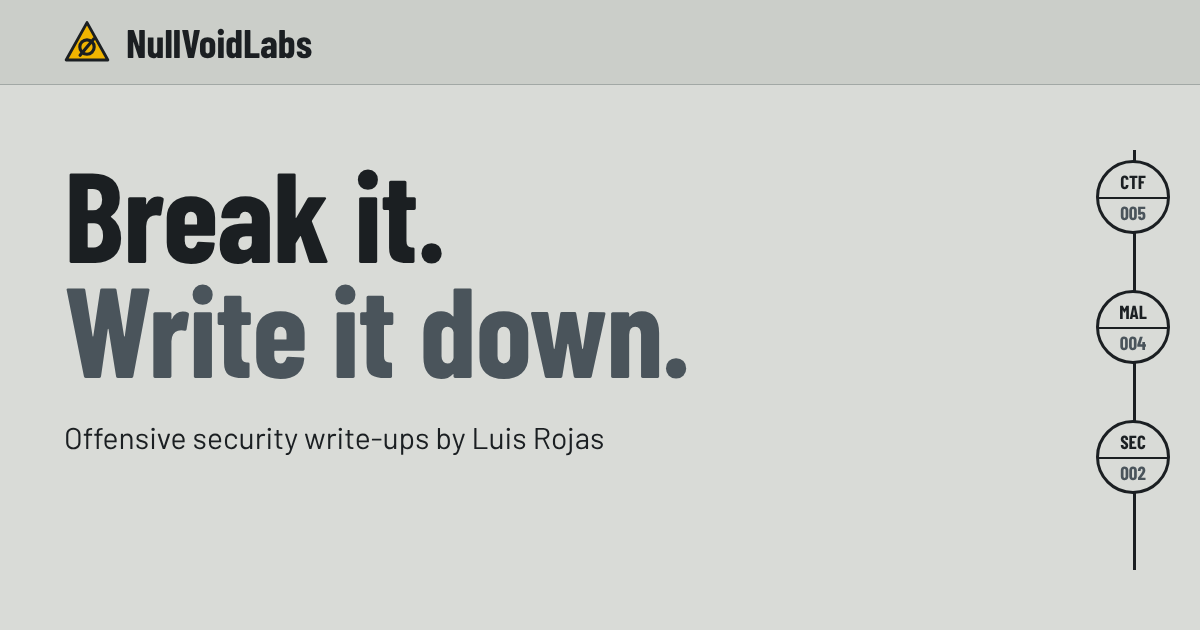
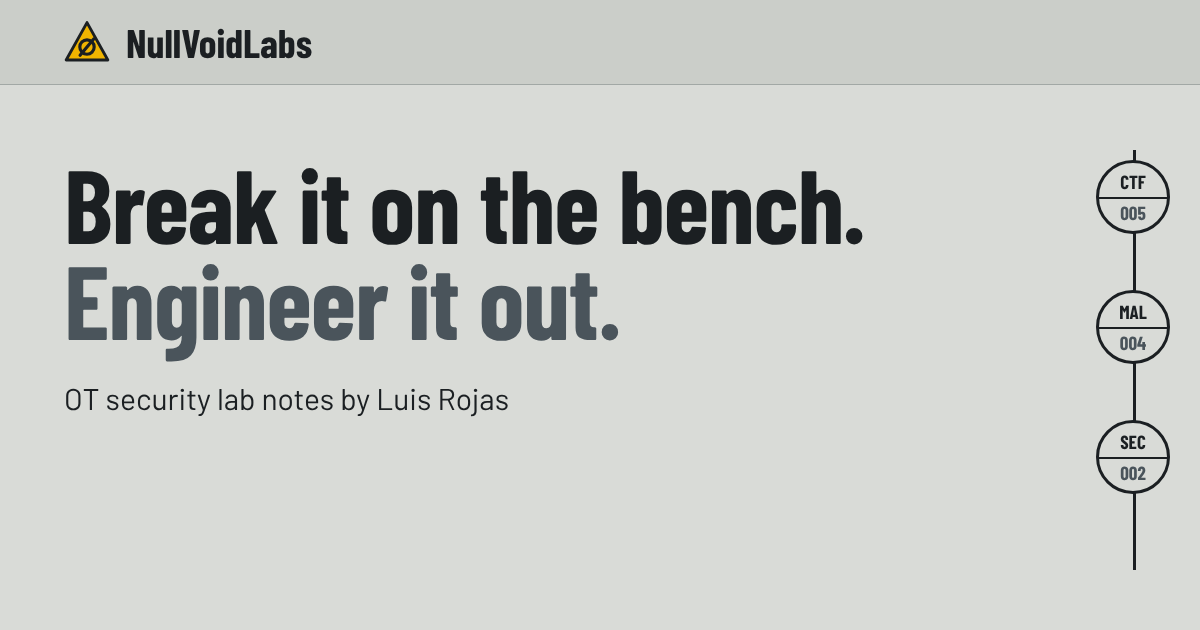
Reposition site from pentesting to OT security engineering
- New headline and intro: break it on the bench, engineer it out
- Current state panel: testbench next step, PLC/control-loop learning,
  internship guard server, CCNA next (OSCP removed)
- About page rewritten around the OT security engineering plan:
  infrastructure path, testbench, open-to-roles line, new roadmap
  (RHCSA, CCNA, IEC 62443 + CCE, GICSP)
- Site description, README and social card updated
- ICS Lab category code ready for testbench posts
- Headline type scale adjusted for the longer line
- Posts unchanged

Claude-Session: https://claude.ai/code/session_014Ve6o2PBXLHHfoBXUDgWzn

Changed region(s): [[0.0308, 0.2714, 0.74, 0.7238]]

diff --git a/_layouts/home.html b/_layouts/home.html
@@ -5,8 +5,8 @@ layout: default
 <section class="hero" aria-labelledby="hero-title">
   <div class="wrap">
     <div>
-      <h1 class="hero-title" id="hero-title"><span>Break it.</span><span>Write it down.</span></h1>
-      <p class="hero-lede">I'm Luis Rojas, a junior penetration tester in San Francisco. NullVoidLabs is where I publish what I break: lab boxes, malware samples, and authorized assessments, from first scan to final finding. The long game is ICS/SCADA red teaming.</p>
+      <h1 class="hero-title" id="hero-title"><span>Break it on the bench.</span><span>Engineer it out.</span></h1>
+      <p class="hero-lede">I'm Luis Rojas, working toward OT security engineering in San Francisco: keeping the systems that run water, power, and manufacturing safe when someone gets onto the network. I learn how industrial systems fail under attack, on a testbench I'm building and in lab write-ups, so I can design them not to.</p>
     </div>
     <section class="faceplate" aria-labelledby="now-title">
       <h2 id="now-title">Current state <small>{{ site.data.now.updated | append: '-01' | date: '%b %Y' }}</small></h2>

diff --git a/assets/css/main.css b/assets/css/main.css
@@ -149,7 +149,8 @@ main { flex: 1 0 auto; }
 @media (min-width: 900px) { .hero .wrap { grid-template-columns: minmax(0, 7fr) minmax(0, 4fr); gap: 4rem; } }
 .hero-title {
   margin: 0 0 1.5rem;
-  font: 700 clamp(3.2rem, 9vw, 6.75rem)/.9 var(--display);
+  font: 700 clamp(2.6rem, 6.4vw, 5.4rem)/.92 var(--display);
+  text-wrap: balance;
   letter-spacing: -.012em;
 }
 .hero-title span { display: block; }

diff --git a/_tabs/about.md b/_tabs/about.md
@@ -1,28 +1,34 @@
 ---
 layout: page
 title: About
-lede: Luis Rojas. Junior penetration tester in San Francisco, working toward ICS/SCADA red teaming.
+lede: Luis Rojas. Working toward OT security engineering in San Francisco.
 order: 4
 ---
 
 <div class="about">
 <div class="prose" markdown="1">
 
-## What I do
+## What I'm working toward
 
-I'm a junior penetration tester. That's the role I'm going after right now, and this site is the evidence. During the day I intern on a security team, where I run GRC platform assessments, pentest self-hosted tools, and deploy them on AWS. Everything else happens in labs that I document here.
+OT security engineering: protecting the industrial systems that run water, power, and manufacturing. I bring an attacker's mindset, which I built through the offensive write-ups on this site, but the goal is defensive engineering. Start from the worst physical outcome, ask whether an attacker could cause it, then design it out, including with controls that aren't digital at all.
 
-I hold Security+ and eJPT. Next up is RHCSA, then CCNA and OSCP. Long term I want to red team industrial control systems, and solid fundamentals across Linux, networking, and Active Directory are what make that specialization worth anything.
+## How I'm getting there
+
+Through infrastructure first. Segmentation is where OT defense lives, so I'm building Linux and networking depth (RHCSA, then CCNA) and looking for an infrastructure or network role to put it to work. In parallel I'm learning the physical side: PLC basics with OpenPLC, how control loops behave and fail, and a testbench I can actually break.
+
+I hold Security+ and eJPT. During the day I intern on a security team, where I'm building a guard server that sits between an AI agent and a GRC platform. It enforces read-only tools, requires human approval for deletes, and keeps a tamper-evident audit log.
+
+**Open to:** junior infrastructure, network, or sysadmin roles in the Bay Area or remote.
+
+## The testbench
+
+An ESP32 acts as the PLC. It speaks Modbus TCP and drives a pump and level sensor on a small water tank, with a web HMI on top. Next comes a safety interlock. Then I attack it on the bench, engineer the attack out, and write up both halves.
 
 ## How I write things up
 
-One rule: no new box until the last one is published. Each write-up records the whole chain, including the dead ends, the reasoning behind each pivot, and the exact commands. Someone following along should be able to reproduce it, not just see that it was done.
+One rule: nothing new until the last thing is published. Each write-up records the whole chain, including the dead ends, the reasoning behind each pivot, and the exact commands, so someone can reproduce it.
 
-All testing here happens on authorized platforms (Hack The Box, TryHackMe), in my own lab, or with written permission from the owner.
-
-## The lab
-
-A VLAN-segmented Proxmox cluster runs my Active Directory and offensive labs. For the ICS side, I'm building a small Modbus water-tank testbench on ESP32 hardware, so I can practise against real field protocols instead of only reading about them.
+All testing here happens on authorized platforms (Hack The Box, TryHackMe), in my own lab, or with written permission from the owner. The lab is a VLAN-segmented Proxmox cluster running Active Directory and offensive labs.
 
 </div>
 
@@ -31,11 +37,11 @@ A VLAN-segmented Proxmox cluster runs my Active Directory and offensive labs. Fo
 <h2 id="road-title">Roadmap</h2>
 <div class="faceplate-body">
 <ol class="roadmap">
-  <li data-state="done"><div><strong>eJPT + Security+</strong><span>Foundation certs. <em>Done</em></span></div></li>
+  <li data-state="done"><div><strong>eJPT + Security+</strong><span>Foundations. <em>Done</em></span></div></li>
   <li data-state="active"><div><strong>RHCSA</strong><span>Exam target Dec 2026 – Jan 2027. <em>In progress</em></span></div></li>
-  <li><div><strong>CCNA</strong><span>Networking depth.</span></div></li>
-  <li><div><strong>OSCP</strong><span>Active Directory attack chains.</span></div></li>
-  <li><div><strong>GICSP</strong><span>ICS/OT specialization on top of red team fundamentals.</span></div></li>
+  <li><div><strong>CCNA</strong><span>2027. Networking and segmentation.</span></div></li>
+  <li><div><strong>IEC 62443 and CCE</strong><span>2028. Industrial security standards and consequence-driven engineering.</span></div></li>
+  <li><div><strong>GICSP</strong><span>ICS security engineering.</span></div></li>
 </ol>
 </div>
 </section>
@@ -52,7 +58,7 @@ A VLAN-segmented Proxmox cluster runs my Active Directory and offensive labs. Fo
 <h2 id="kit-title">Toolkit</h2>
 <div class="faceplate-body">
 <ul class="kit">
-  <li>Kali</li><li>Fedora</li><li>Burp Suite</li><li>Caido</li><li>Nmap</li><li>RustScan</li><li>NetExec</li><li>Impacket</li><li>Metasploit</li><li>Hashcat</li><li>Wireshark</li><li>Python</li><li>Bash</li><li>Proxmox</li><li>Active Directory</li>
+  <li>Linux (Fedora, RHEL)</li><li>Proxmox</li><li>VLAN segmentation</li><li>Modbus TCP</li><li>ESP32</li><li>Wireshark</li><li>Nmap</li><li>Python</li><li>Bash</li><li>Active Directory</li><li>Burp Suite</li><li>Impacket</li>
 </ul>
 </div>
 </section>

diff --git a/README.md b/README.md
@@ -1,12 +1,12 @@
 # NullVoidLabs
 
-Offensive security write-ups and field notes by [Luis Rojas](https://www.linkedin.com/in/lrjsec).
+OT security lab notes and write-ups by [Luis Rojas](https://www.linkedin.com/in/lrjsec).
 
 Live site: [nullvoidlabs.io](https://www.nullvoidlabs.io)
 
 ## What's here
 
-Write-ups covering penetration testing, CTF boxes, malware analysis, and authorized security assessments. All testing is done on authorized platforms, in my own lab, or with written permission.
+Notes from building toward OT security engineering: an ICS testbench, plus write-ups of lab boxes, malware analysis, and authorized security assessments. All testing is done on authorized platforms, in my own lab, or with written permission.
 
 ## How the site is built
 
